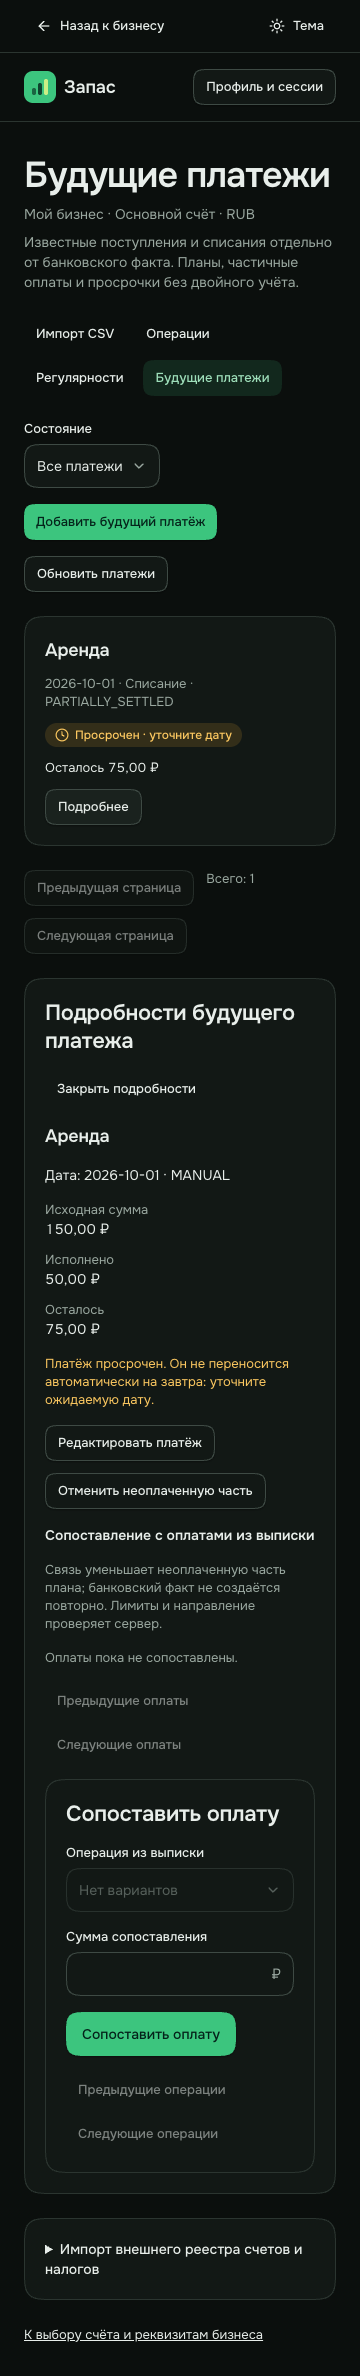
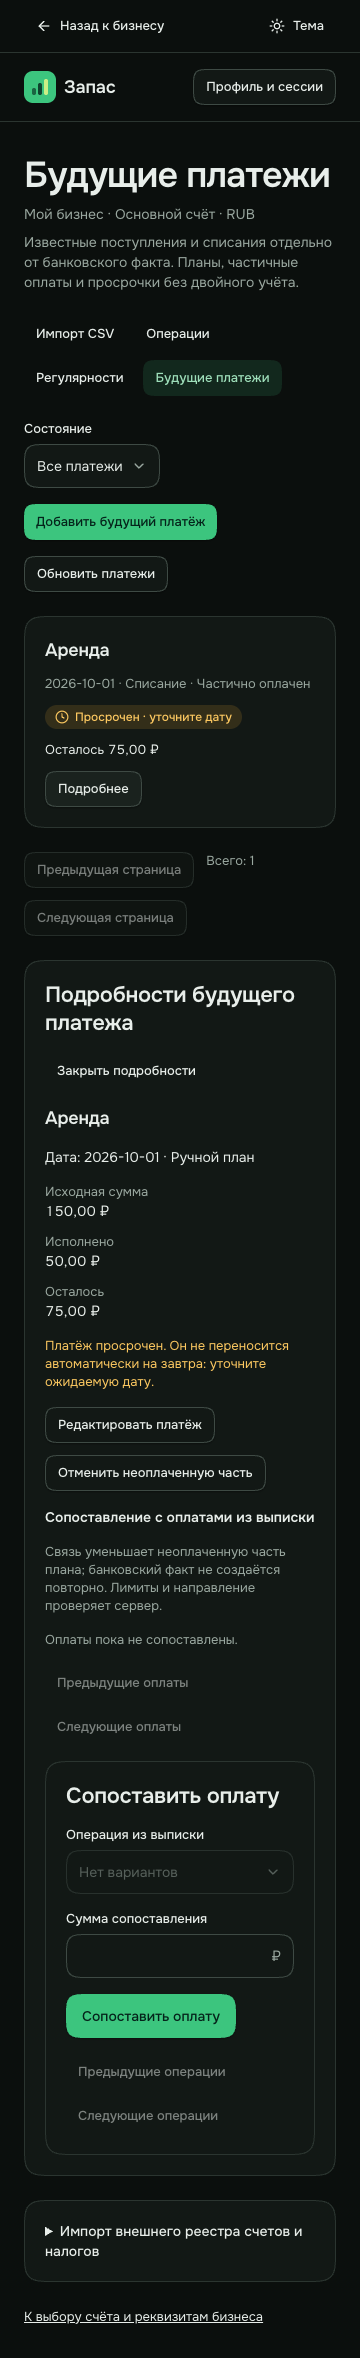
fix(web): translate plan states and sources for clients

diff --git a/apps/web/src/pages/cashflow/ui/PlansPage.tsx b/apps/web/src/pages/cashflow/ui/PlansPage.tsx
@@ -34,6 +34,21 @@ import { MoneyInput } from "@zapas/ui";
 import { NoRows, QueryState, ReadOnly, Section } from "./parts.tsx";
 import { useRefresh, visible } from "../model/helpers.ts";
 
+const statusNames = {
+  OPEN: "Открыт",
+  PARTIALLY_SETTLED: "Частично оплачен",
+  SETTLED: "Исполнен",
+  CANCELLED: "Отменён",
+  UNKNOWN: "Неизвестное состояние",
+} as const;
+const sourceNames = {
+  MANUAL: "Ручной план",
+  INVOICE: "Счёт",
+  TAX: "Налог из реестра",
+  CONTRACT: "Договор",
+  UNKNOWN: "Неизвестный источник",
+} as const;
+
 const editorSchema = planDraftSchema
   .safeExtend({ additionalConfirmed: z.boolean() })
   .refine((value) => value.relation !== "ADDITIONAL" || value.additionalConfirmed, {
@@ -505,7 +520,7 @@ function PlanDetail({ scope, id, onClose }: { scope: BusinessScope; id: string; 
         <>
           <h3 className="text-lg font-semibold break-words">{query.data.title}</h3>
           <p>
-            Дата: {query.data.dueDate} · {query.data.source}
+            Дата: {query.data.dueDate} · {sourceNames[query.data.source]}
           </p>
           <div className="grid gap-3 sm:grid-cols-3">
             {[
@@ -515,7 +530,11 @@ function PlanDetail({ scope, id, onClose }: { scope: BusinessScope; id: string; 
             ].map(([label, amount]) => (
               <div key={label}>
                 <p className="text-muted-foreground text-sm">{label}</p>
-                {amount === undefined ? <p>Нет данных</p> : <Amount value={amount} animated={false} />}
+                {amount === undefined ? (
+                  <p>Нет данных</p>
+                ) : (
+                  <Amount value={amount} animated={false} className="break-all" />
+                )}
               </div>
             ))}
           </div>
@@ -607,7 +626,7 @@ function PlanDetail({ scope, id, onClose }: { scope: BusinessScope; id: string; 
               )}
               {allocations.data.items.map((item) => (
                 <div key={item.id} className="border-border space-y-3 rounded-md border p-4">
-                  <Amount value={item.amount} animated={false} />
+                  <Amount value={item.amount} animated={false} className="break-all" />
                   <p className="text-muted-foreground text-sm break-all">Операция {item.paymentId}</p>
                   {scope.writable && scope.company.permissions.canManagePlans && !query.isError && (
                     <VersionedForm
@@ -878,11 +897,11 @@ function Plans({ scope }: { scope: BusinessScope }) {
                       : item.direction === "OUT"
                         ? "Списание"
                         : "Неизвестное направление"}{" "}
-                    · {item.status}
+                    · {statusNames[item.status]}
                   </p>
                   {item.overdue && <Badge tone="warning">Просрочен · уточните дату</Badge>}
                   <p className="text-sm">
-                    Осталось <Amount value={item.remainingAmount} animated={false} />
+                    Осталось <Amount value={item.remainingAmount} animated={false} className="break-all" />
                   </p>
                   <Button
                     size="sm"

diff --git a/apps/web/e2e/plans.spec.ts b/apps/web/e2e/plans.spec.ts
@@ -168,7 +168,7 @@ test("cancelling the unpaid part sends the explicit reason, version and key", as
   await page.getByRole("button", { name: "Отменить неоплаченную часть", exact: true }).click();
   await page.getByLabel("Причина отмены", { exact: true }).fill("Согласовано с контрагентом");
   await page.getByRole("button", { name: "Подтвердить отмену", exact: true }).click();
-  await expect(page.getByText(/CANCELLED/)).toBeVisible();
+  await expect(page.getByText(/Отменён/)).toBeVisible();
   const call = state.requests.find((row) => row.path.endsWith("/cancel"));
   expect(call?.body).toEqual({ reason: "Согласовано с контрагентом" });
   expect(call?.headers["if-match"]).toBe('"1"');
